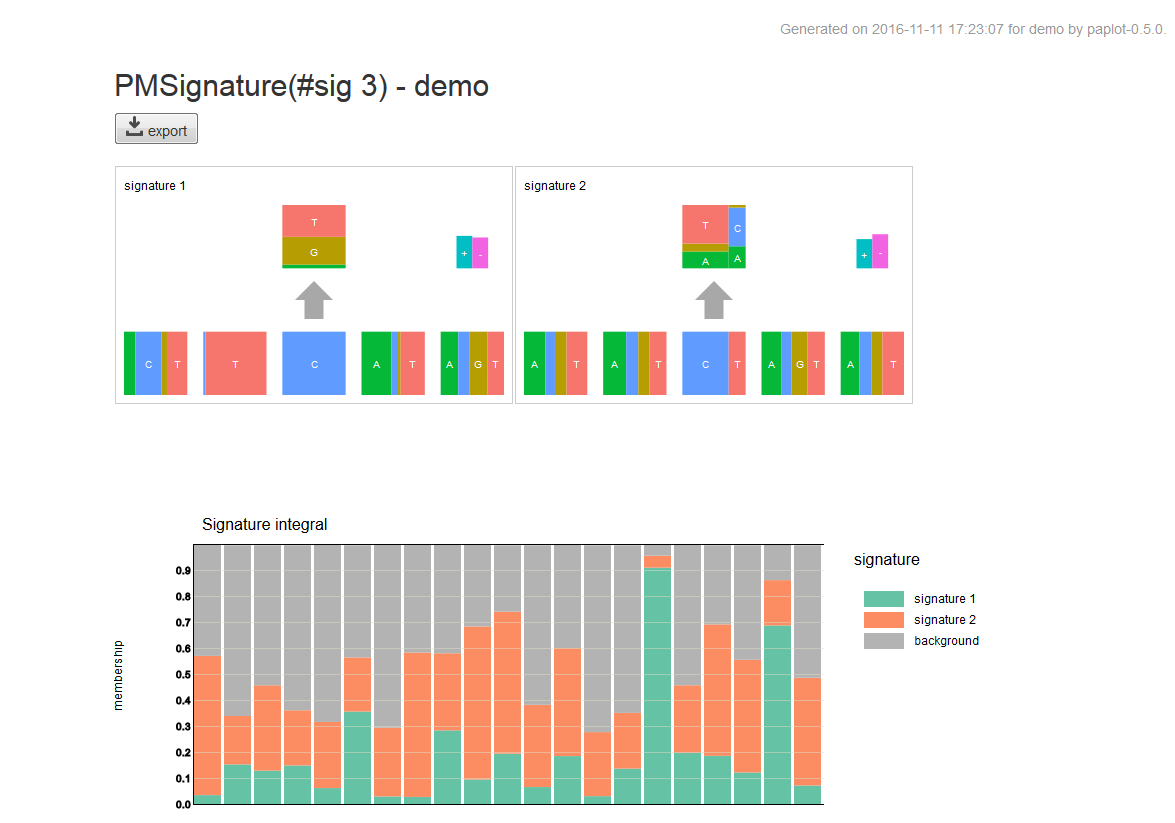
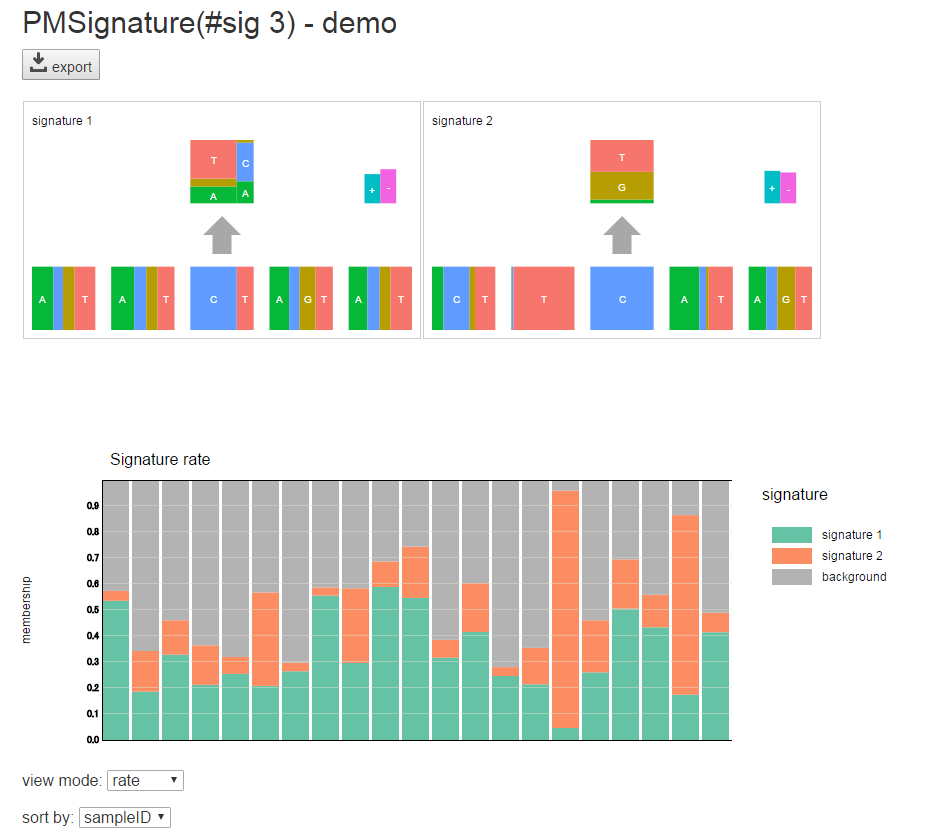
update

diff --git a/quick_start.rst b/quick_start.rst
@@ -54,6 +54,10 @@ quick start
   # create bar graphs of qc
   paplot qc "example/qc/*.csv" ./tmp demo --config_file example/example.cfg
 
+  paplot qc "example/qc/SAMPLE*" ./demo demo --config_file ./example/example.cfg
+  paplot ca "example/sv/SAMPLE*" ./demo demo --config_file ./example/example.cfg
+  paplot mutation example/mutation/sample_merge.csv ./demo demo --config_file ./example/example.cfg
+
   # create bundle graphs of Structural Variation (SV)
   paplot sv "example/sv/*.txt" ./tmp demo --config_file example/example.cfg
 
@@ -61,10 +65,10 @@ quick start
   paplot mutation example/mutation/sample_merge.csv ./tmp demo --config_file example/example.cfg
 
   # create signature graphs
-  paplot signature ./example/signature/pmsignature_full3.json ./tmp demo 3
+  paplot signature example/signature/Nik_Zainal_2012.full.2.json ./demo demo 2 --config_file ./example/example.cfg
 
   # create signature graphs (pmsignature)
-  paplot pmsignature ./example/pmsignature/pmsignature_ind3.json ./demo demo 3
+  paplot pmsignature example/pmsignature/Nik_Zainal_2012.ind.3.json ./demo demo 3 --config_file ./example/example.cfg
 
 
 3. 結果ファイルを表示
@@ -79,9 +83,9 @@ HTMLファイルができていますか？
         ├ demo
         │   ├ graph_ca.html            <--- ca グラフ
         │   ├ graph_mut.html           <--- mutation-matrix グラフ
-        │   ├ graph_pmsignature3.html   <--- pmsignature グラフ
+        │   ├ graph_pmsignature3.html  <--- pmsignature グラフ
         │   ├ graph_qc.html            <--- qc グラフ
-        │   └ graph_signature3.html     <--- signature グラフ
+        │   └ graph_signature3.html    <--- signature グラフ
         │
         ├ js          <--- この4つのディレクトリはHTMLファイルを表示するために必要です。消さないでください。
         ├ layout
@@ -100,17 +104,17 @@ HTMLファイルができていますか？
 | 
 | **QC グラフ**
 
-.. image:: image/qc_dummy.png
+.. image:: image/qc_dummy.PNG
   :scale: 100%
 
 | **CA グラフ**
 
-.. image:: image/sv_dummy.png
+.. image:: image/sv_dummy.PNG
   :scale: 100%
 
 | **mutation-matrix グラフ**
 
-.. image:: image/mut_dummy.png
+.. image:: image/mut_dummy.PNG
   :scale: 100%
 
 | **signature グラフ** |new|
@@ -123,7 +127,7 @@ HTMLファイルができていますか？
 .. image:: image/pmsig_dummy.PNG
   :scale: 100%
 
-| それぞれのグラフの使い方は :doc:`how to use graphs<use_graph>` を参照してください。
+| それぞれのグラフの使い方は `how to use graphs <./index.html#how-to-toc>`_ を参照してください。
 |
 
 .. |new| image:: image/tab_001.gif

diff --git a/howto_ca.rst b/howto_ca.rst
@@ -1,0 +1,31 @@
+==============
+CA グラフ
+==============
+
+| CA (Chromosomal Aberration) グラフではStructural Variation (SV) 等、Chromosome間の変異を円形のplotで可視化し、棒グラフでその分布を表示します。
+| 
+
+* 棒グラフでは全サンプルでbreakpointを集計した数を表示します。
+* 円形のplotでは、サンプルごとにbreakpoint1と2を線でつないで表示します。
+
+| 棒グラフを選択すると選択されたgenome領域にbreakpointを持つサンプルが選択されます。
+| 選択方法は「ハイライト」と「選択したもののみ表示（他を隠す）」の2とおりあり、先頭のオプションボタンで選択できます。
+|
+
+.. image:: image/sv_operation1.PNG
+  :scale: 100%
+
+
+| 棒グラフのstackは2つあり、2つのbreak pointがchromosome を超えているか、もしくは同一 chromosome 内かで色を分けています。
+| チェックを外すと、その要素は表示されません。
+|
+
+.. image:: image/sv_operation2.PNG
+  :scale: 100%
+
+| サンプルごとの円形のグラフをクリックすると拡大表示します。
+| breakpointをつなぐ線の上にマウスを乗せると詳細を表示します。
+|
+
+.. image:: image/sv_operation3.PNG
+  :scale: 100%

diff --git a/howto_signature.rst b/howto_signature.rst
@@ -1,0 +1,39 @@
+========================
+signature グラフ |new|
+========================
+
+signature グラフでは検出したmutation についてsignatureとその集積グラフを表示します。
+
+:signature:
+  signatureを表示します。
+
+:縦長の棒グラフ:
+  サンプルごとmutationについて、signatureの割合を表示します。
+
+.. image:: image/sig_dummy.PNG
+  :scale: 100%
+
+また、積算グラフの下のリストボックスにより表示モードを切り替えることができます。
+
+:view mode:
+  - rate ... 100%表示します。
+  - integral ... 実際のmutation数に対する割合を表示します。
+
+:sort by:
+  - sampleID ... サンプルID順
+  - mutation count ... mutation数の降順
+
+  view modeがintegralの場合のみ、ソート方法を選択できます。
+
+
+view mode 「integral」, sort by 「mutation count」の表示例
+
+.. image:: image/sig_operation1.PNG
+  :scale: 100%
+
+pmsignatureについても同様です。
+
+.. image:: image/pmsig_dummy.PNG
+  :scale: 100%
+
+.. |new| image:: image/tab_001.gif

diff --git a/command.rst b/command.rst
@@ -14,8 +14,8 @@ paplot コマンド
 
 **必須**
 
-:{qc, sv, mutation}:
-  paplotのサブコマンドです。いづれかを選択します。(svはCAグラフを出力します)
+:{qc, ca, mutation, signature, pmsignature}:
+  paplotのサブコマンドです。いづれかを選択します。
 
 :input:
   入力ファイルです。ワイルドカード (``*``, ``?``) を使用して複数指定することができます。その場合、最初と最後に ``"`` をつけてください。
@@ -65,12 +65,12 @@ paplot コマンド
     ├ layout
     ├ lib
     ├ style
-    |
+    │
     └ index.html             <--- このファイルを web ブラウザで開いてください。
 
 
 出力ファイルを移動する場合は ``{output_dir}`` ごと移動してください。
 
-出力ファイルの操作方法は :doc:`how to use graphs<use_graph>` を参照してください。
+それぞれのグラフの使い方は `how to use graphs <./index.html#how-to-toc>`_ を参照してください。
 
 .. |new| image:: image/tab_001.gif

diff --git a/index.rst b/index.rst
@@ -1,11 +1,11 @@
 .. image:: https://img.shields.io/badge/python-2.7-blue.svg
     :target: https://img.shields.io/badge/python-2.7-blue.svg
+.. image:: https://img.shields.io/badge/python-3.5-blue.svg
+    :target: https://img.shields.io/badge/python-3.5-blue.svg
 
-|
+https://img.shields.io/badge/python-3.5-blue.svg
 
-.. image:: image/genomon_kun.png
-
-|
+.. image:: image/genomon_kun.PNG
 
 paplot documentation
 ========================
@@ -25,7 +25,10 @@ Contents:
    :caption: how to use graphs
    :name: how_to_toc
    
-   use_graph.rst
+   howto_qc.rst
+   howto_ca.rst
+   howto_mat.rst
+   howto_signature.rst
 
 .. toctree:: 
    :maxdepth: 2
@@ -44,21 +47,21 @@ Contents:
    
    config_qc.rst
    config_ca.rst
-   config_mut.rst
+   config_mat.rst
    config_signature.rst
    style.rst
 
 .. toctree:: 
-   :maxdepth: 2
+   :maxdepth: 1
    :caption: Q & A
    :name: qa_toc
    
    qa.rst
 
 .. toctree:: 
-   :maxdepth: 2
+   :maxdepth: 1
    :caption: infomation
-   :name: advance_toc
+   :name: info_toc
    
    info.rst
    

diff --git a/howto_qc.rst b/howto_qc.rst
@@ -1,0 +1,13 @@
+==============
+QC グラフ
+==============
+
+| QC (Quality Control) グラフではbamファイルの品質をグラフに表示します。
+|
+| 先頭の背の低いグラフはbamファイルごとのdepth 平均値です。
+| このグラフを範囲選択することで他のグラフの拡大ができます。
+| それぞれのグラフではマウスを乗せると詳細を表示します。
+|
+
+.. image:: image/qc_operation.PNG
+  :scale: 100%

diff --git a/install.rst b/install.rst
@@ -14,7 +14,7 @@ install
 |
 
  * :ref:`Linux系の場合 (HGCスパコン, cygwin含) <linux>`
- * :ref:`MacOS Xの場合 <linux>`
+ * :ref:`MacOS Xの場合 <macosx>`
  * :ref:`Windowsの場合 <windows>`
 
 .. _linux:
@@ -71,6 +71,7 @@ Linux系の場合 (HGCスパコン, cygwin含)
     export LD_LIBRARY_PATH=~/.local/lib/:$LD_LIBRARY_PATH
   
 
+.. _macosx:
 
 ================================================
 MacOS Xの場合

diff --git a/config.rst b/config.rst
@@ -191,7 +191,7 @@ CAグラフ固有の設定記載方法について、詳細は :doc:`config_ca` 
 4. mutation-matrix
 ----------------------
 
-mutation-matrixグラフ固有の設定記載方法について、詳細は :doc:`config_mut` に記載しています。
+mutation-matrixグラフ固有の設定記載方法について、詳細は :doc:`config_mat` に記載しています。
 
 .. code-block:: cfg
   :linenos:

diff --git a/style.rst b/style.rst
@@ -16,7 +16,7 @@
  - :doc:`config`
  - :doc:`config_qc` 
  - :doc:`config_ca` 
- - :doc:`config_mut` 
+ - :doc:`config_mat` 
 
 | 2つ目はstyleファイルです。
 | 入力データに依存しない要素を設定します。
